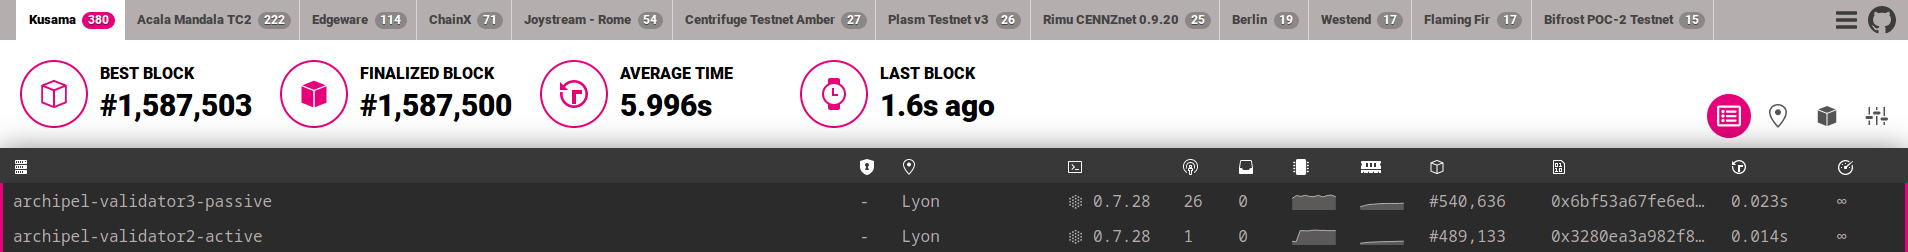
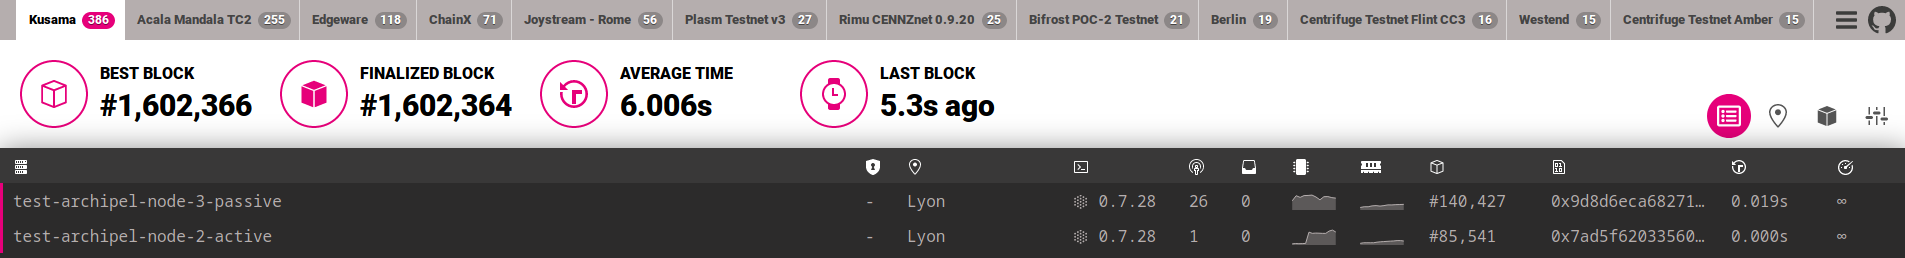
[doc] Archipel Federation Testing Update

diff --git a/doc/archipel-federation-testing.md b/doc/archipel-federation-testing.md
@@ -14,7 +14,7 @@ What will be launched:
 - **3 Polkadot KUSAMA Nodes**
   - 1 Validator Node
   - 2 Sentry Nodes
-- **3 Archipel UI instances** (1 per Archipel Node)
+- **Archipel UI instance**
 
 Connection between Archipel nodes and Polkadot KUSAMA nodes are secured by **WireGuard VPN**!
 
@@ -32,17 +32,18 @@ cd archipel/deployer/test
 
 ### 2.1 Check Archipel UI
 
-The execution of **[launch.sh](../deployer/test/launch.sh)** script will generate 3 URLs for UI of each Archipel node.
+The execution of **[launch.sh](../deployer/test/launch.sh)** script will generate the URL for Archipel UI.
 
 <p align="center">
- <img src=./images/archipel-launch-ui.png width = 536>
+ <img src=./images/archipel-launch-ui.png width = 465>
 </p>
 
-| UI | Link |
-| -- | ---- |
-| **Archipel 1 UI** | http://172.28.42.5/ |
-| **Archipel 2 UI** | http://172.28.42.6/ |
-| **Archipel 3 UI** | http://172.28.42.7/ |
+Archipel UI will be available at http://172.28.42.5/
+
+
+<p align="center">
+ <img src=./images/archipel-ui-1.png width = 1000>
+</p>
 
 Archipel UI will show you the full state of the Archipel Federation.
 
@@ -52,6 +53,20 @@ It also gives you ability to manipulate orchestrator:
  * **stop/start service container**
 
 If you don't see any metrics or master elected, please wait a little bit!
+
+By default the Archipel UI uses Archipel Node 1 API endpoint. You can change API endpoint in order to see other nodes state.
+
+| Node | Endpoint |
+| ---- | -------- |
+| Node 1 | http://172.28.42.2:3000 |
+| Node 2 | http://172.28.42.3:3000 |
+| Node 3 | http://172.28.42.4:3000 |
+
+**Example** 
+
+<p align="center">
+ <img src=./images/archipel-ui-2.png width = 1000>
+</p>
 
 ### 2.2 Check containers launched
 ```bash
@@ -64,7 +79,7 @@ docker ps
 
 You must see multiple containers launched:
 - **3 Archipel nodes**: archipel1, archipel2, archipel3
-- **3 Archipel UI instances**: archipel1-ui, archipel2-ui, archipel3-ui
+- **Archipel UI**: archipel-ui
 - **3 Polkadot KUSAMA nodes**
   - 1 Validator Node: node1-polkadot-validator
   - 2 Sentry Nodes: node2-polkadot-sync, node3-polkadot-sync
@@ -73,9 +88,9 @@ You must see multiple containers launched:
 https://telemetry.polkadot.io/#/Kusama%20CC3
 
 - You must see 3 archipel nodes running
-  - archipel-validator1-{active or passive}
-  - archipel-validator2-{active or passive}
-  - archipel-validator3-{active or passive}
+  - test-archipel-node-1-{active or passive}
+  - test-archipel-node-2-{active or passive}
+  - test-archipel-node-3-{active or passive}
 - Active node = Validator Node
 - Passive node = Sentry Node
 
@@ -118,11 +133,14 @@ docker ps
 
 **Archipel UI**
 
-| UI | Link |
-| -- | ---- |
-| **Archipel 1 UI** | http://172.28.42.5/ |
-| **Archipel 2 UI** | http://172.28.42.6/ |
-| **Archipel 3 UI** | http://172.28.42.7/ |
+**Archipel UI**: http://172.28.42.5/
+
+The Node 1 API endpoint is not available cause we stopped it. So you must change the API endpoint. 
+You can use: **http://172.28.42.3:3000**
+
+<p align="center">
+ <img src=./images/archipel-ui-3.png width = 1000>
+</p>
 
 **Telemetry**
 
